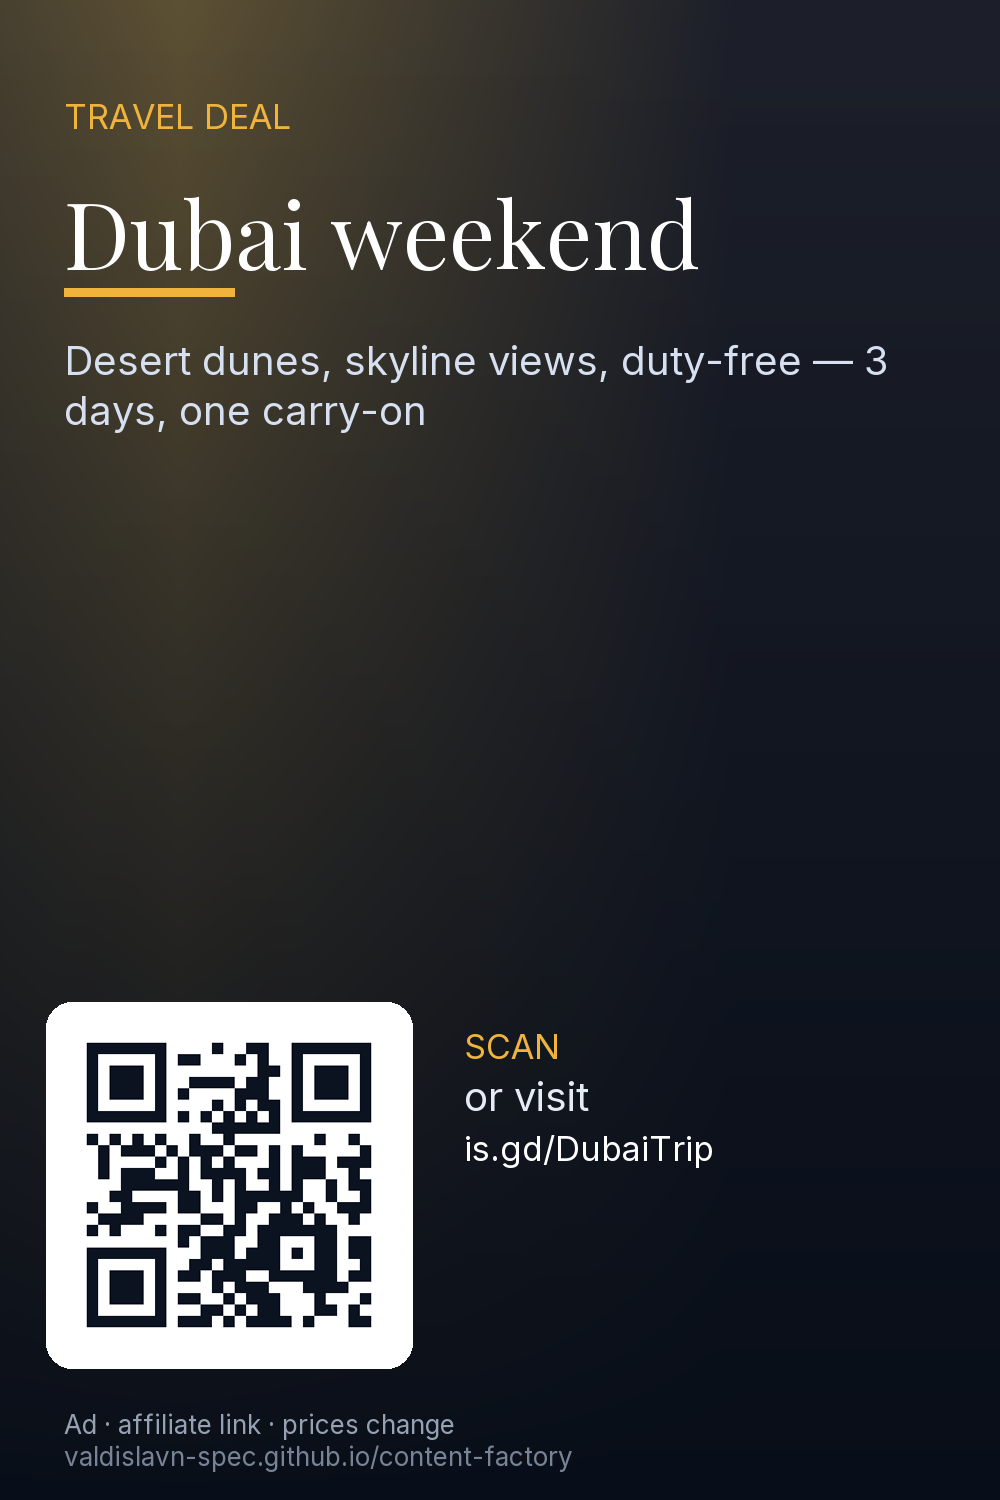
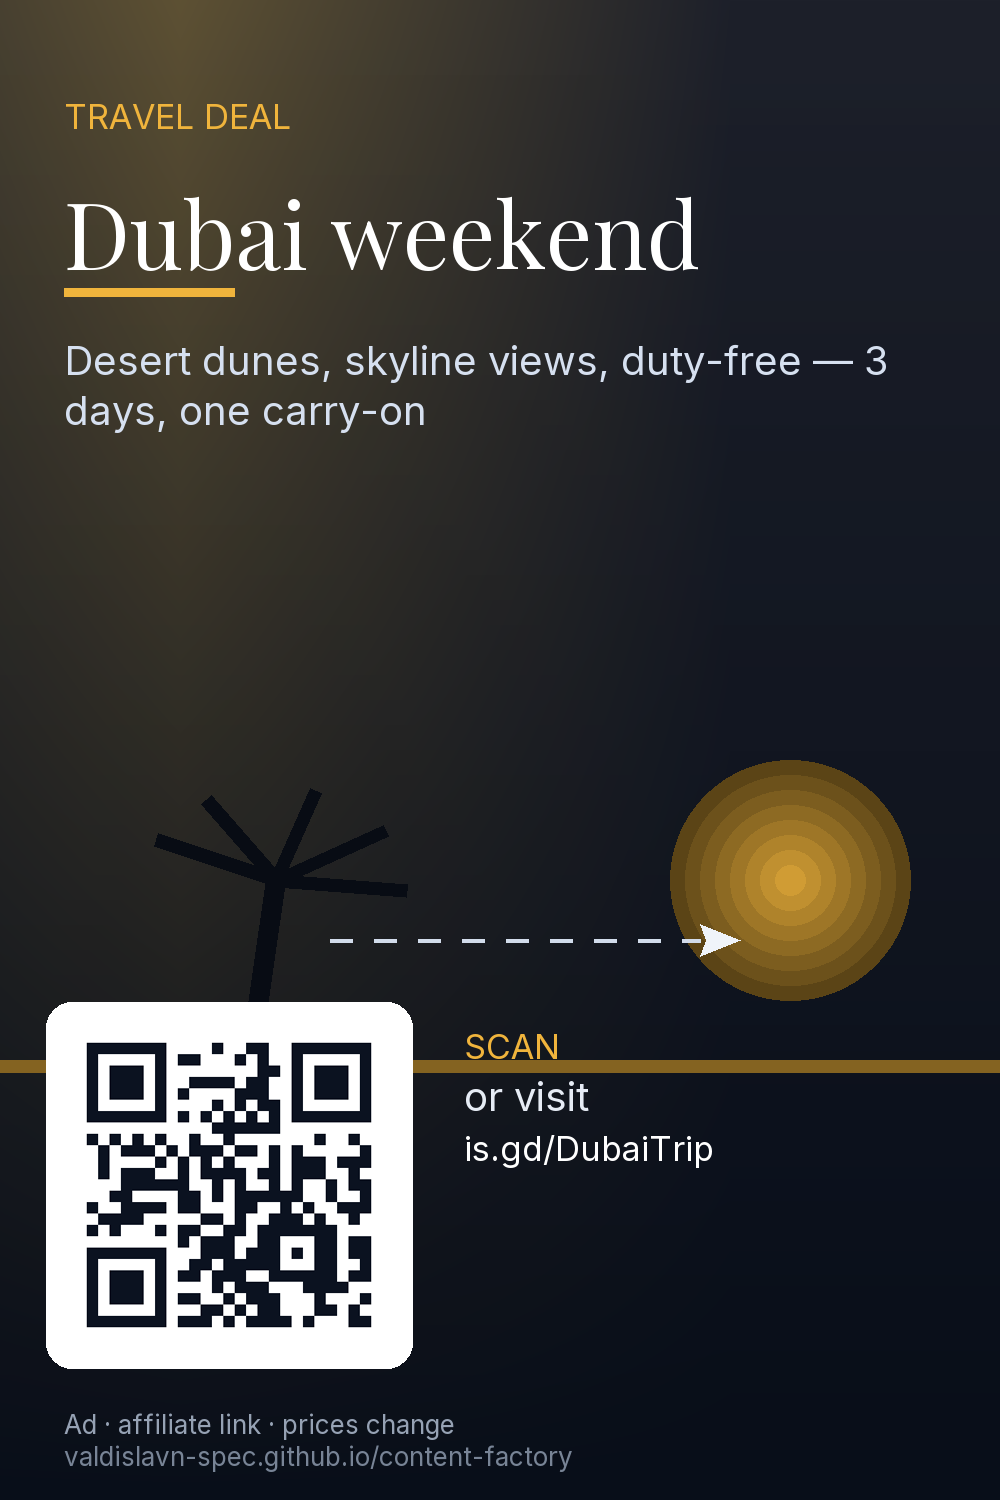
feat(pins): QR-пины (партссылка+QR в картинке) и CSV для импорта в Pinterest

diff --git a/scripts/build_qr_pins.py b/scripts/build_qr_pins.py
@@ -118,6 +118,26 @@ def render(pin: dict, out_dir: Path) -> Path:
         draw.text((64, y), line, font=sub, fill=(214, 224, 240))
         y += 50
 
+    # decorative destination scene (sun + horizon + palm silhouette)
+    scene_top = max(y + 30, 760)
+    cx, cy, r = W - 210, scene_top + 120, 120
+    for k in range(8, 0, -1):
+        rr = int(r * k / 8)
+        alpha = int(38 * (9 - k) / 8)
+        draw.ellipse((cx - rr, cy - rr, cx + rr, cy + rr), fill=(accent[0], accent[1], accent[2], alpha) if False else tuple(int(accent[i] * (0.38 + 0.07 * (8 - k))) for i in range(3)))
+    draw.rectangle((0, scene_top + 300, W, scene_top + 312), fill=tuple(int(c * 0.55) for c in accent))
+    # palm silhouette bottom left of scene
+    px0, py0 = 250, scene_top + 300
+    draw.line([(px0, py0), (px0 + 26, py0 - 180)], fill=(8, 12, 20), width=20)
+    for ang, dx, dy in [(-70, -120, -40), (-30, -70, -80), (10, 40, -90), (50, 110, -50), (90, 130, 10)]:
+        draw.line([(px0 + 26, py0 - 180), (px0 + 26 + dx, py0 - 180 + dy)], fill=(8, 12, 20), width=14)
+    # dashed flight path + plane
+    path_y = scene_top + 180
+    for xx in range(330, 700, 44):
+        draw.line([(xx, path_y), (min(xx + 22, 700), path_y)], fill=(210, 220, 235), width=4)
+    # plane triangle
+    draw.polygon([(700, path_y - 16), (740, path_y), (700, path_y + 16), (706, path_y)], fill=(240, 244, 250))
+
     # QR block bottom-left
     qr = segno.make(pin["url"], error="m")
     buf = io.BytesIO()
